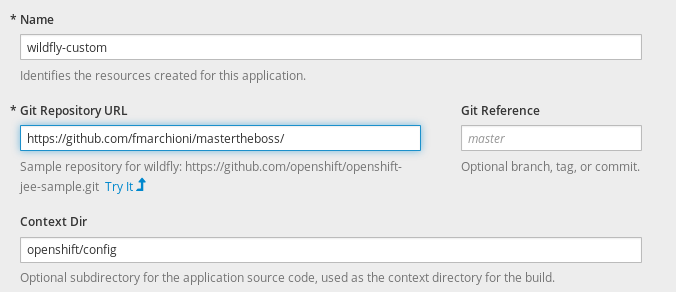
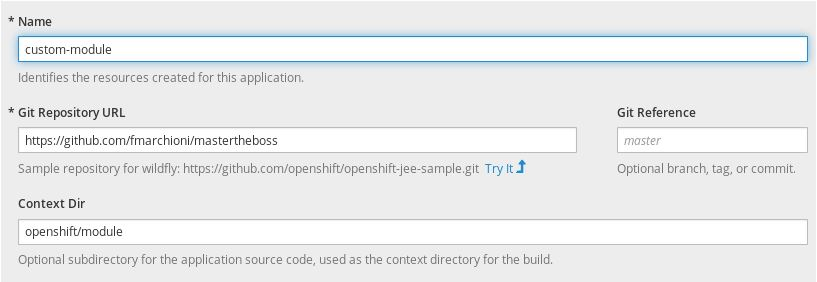
Updated

Changed region(s): [[0.0, 0.3404, 0.9941, 0.6809], [0.0, 0.7092, 0.9941, 0.9645], [0.0, 0.0567, 0.9941, 0.3121]]

diff --git a/learn-openshift-wildfly/customize-wildfly-applications-on-openshift/steps/2/text.md b/learn-openshift-wildfly/customize-wildfly-applications-on-openshift/steps/2/text.md
@@ -1,4 +1,4 @@
-In this scenario, we will add custom modules and deployments to WildFly on Openshift. It is available on github at https://github.com/fmarchioni/mastertheboss/tree/master/openshift/module, will show how to add external modules and deployments during the Source to Image process.
+In this scenario, we will add custom modules and deployments to WildFly on Openshift. It is available on [github](https://github.com/fmarchioni/mastertheboss/tree/master/openshift/module), will show how to add external modules and deployments during the Source to Image process.
 
 ![](https://github.com/fenago/katacoda-scenarios/raw/master/learn-openshift-wildfly/customize-wildfly-applications-on-openshift/steps/2/1.png)
 
@@ -36,3 +36,4 @@ In order to link the library with the application server add a jboss-deployment-
     </deployment>
 </jboss-deployment-structure>
 ```
+

diff --git a/learn-openshift-wildfly/customize-wildfly-applications-on-openshift/steps/22/text.md b/learn-openshift-wildfly/customize-wildfly-applications-on-openshift/steps/22/text.md
@@ -5,6 +5,7 @@ You can deploy your application using web console as well as with `cli` tools. T
 - Click  *Add to Project* button from *Overview* page.
 - Type `wildfly`{{copy}} into the Filter.
 - Choose the *wildfly* template.
+- Click *Next* and then select `view advanced options`.
 
 
 ![](https://github.com/fenago/katacoda-scenarios/raw/master/learn-openshift-wildfly/customize-wildfly-applications-on-openshift/steps/2/deploy2.JPG)
@@ -12,3 +13,5 @@ You can deploy your application using web console as well as with `cli` tools. T
 
 ![](https://github.com/fenago/katacoda-scenarios/raw/master/learn-openshift-wildfly/customize-wildfly-applications-on-openshift/steps/2/deploy3.JPG)
 
+
+![](https://github.com/fenago/katacoda-scenarios/raw/master/learn-openshift-wildfly/customize-wildfly-applications-on-openshift/steps/2/deploy4.JPG)

diff --git a/learn-openshift-wildfly/customize-wildfly-applications-on-openshift/steps/3/text.md b/learn-openshift-wildfly/customize-wildfly-applications-on-openshift/steps/3/text.md
@@ -1,6 +1,6 @@
 To build the application on Openshift specify the root folder as Git Repository URL: `https://github.com/fmarchioni/mastertheboss`{{copy}}
 
-Next, specify the subfolder `openshift/modules`{{copy}} as path:
+Next, specify the subfolder `openshift/module`{{copy}} as path:
 
 ![](https://github.com/fenago/katacoda-scenarios/raw/master/learn-openshift-wildfly/customize-wildfly-applications-on-openshift/steps/3/deploy.JPG)
 

diff --git a/learn-openshift-wildfly/customize-wildfly-applications-on-openshift/steps/4/text.md b/learn-openshift-wildfly/customize-wildfly-applications-on-openshift/steps/4/text.md
@@ -7,4 +7,4 @@ Openshift uses _Route_ to make application accessible outside of the OpenShift c
 
 Here is the application in action:
 
-![](https://github.com/fenago/katacoda-scenarios/raw/master/learn-openshift-wildfly/customize-wildfly-applications-on-openshift/steps/3/1.png)
+![](https://github.com/fenago/katacoda-scenarios/raw/master/learn-openshift-wildfly/customize-wildfly-applications-on-openshift/steps/4/1.png)
